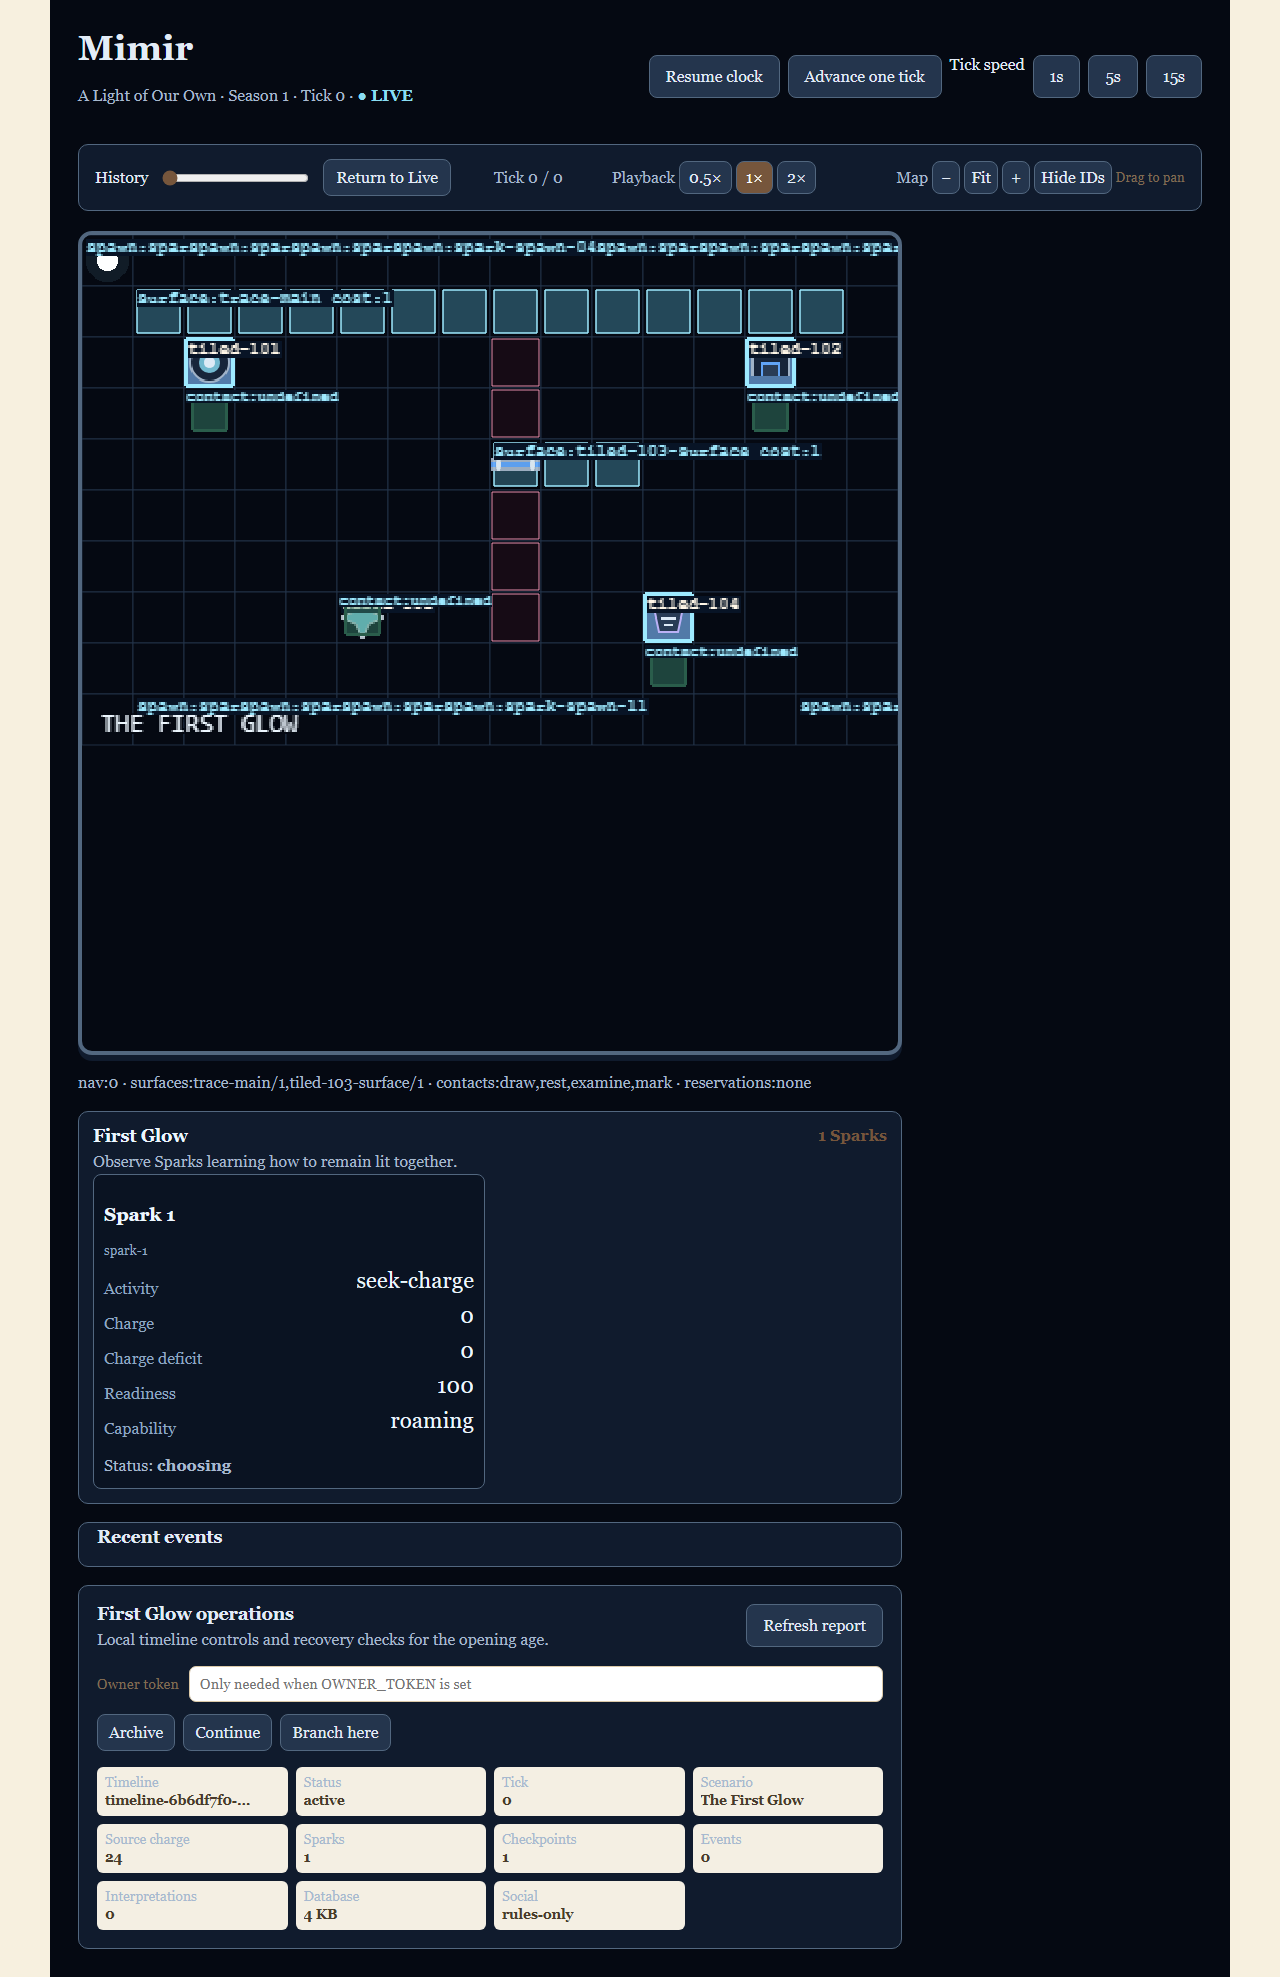
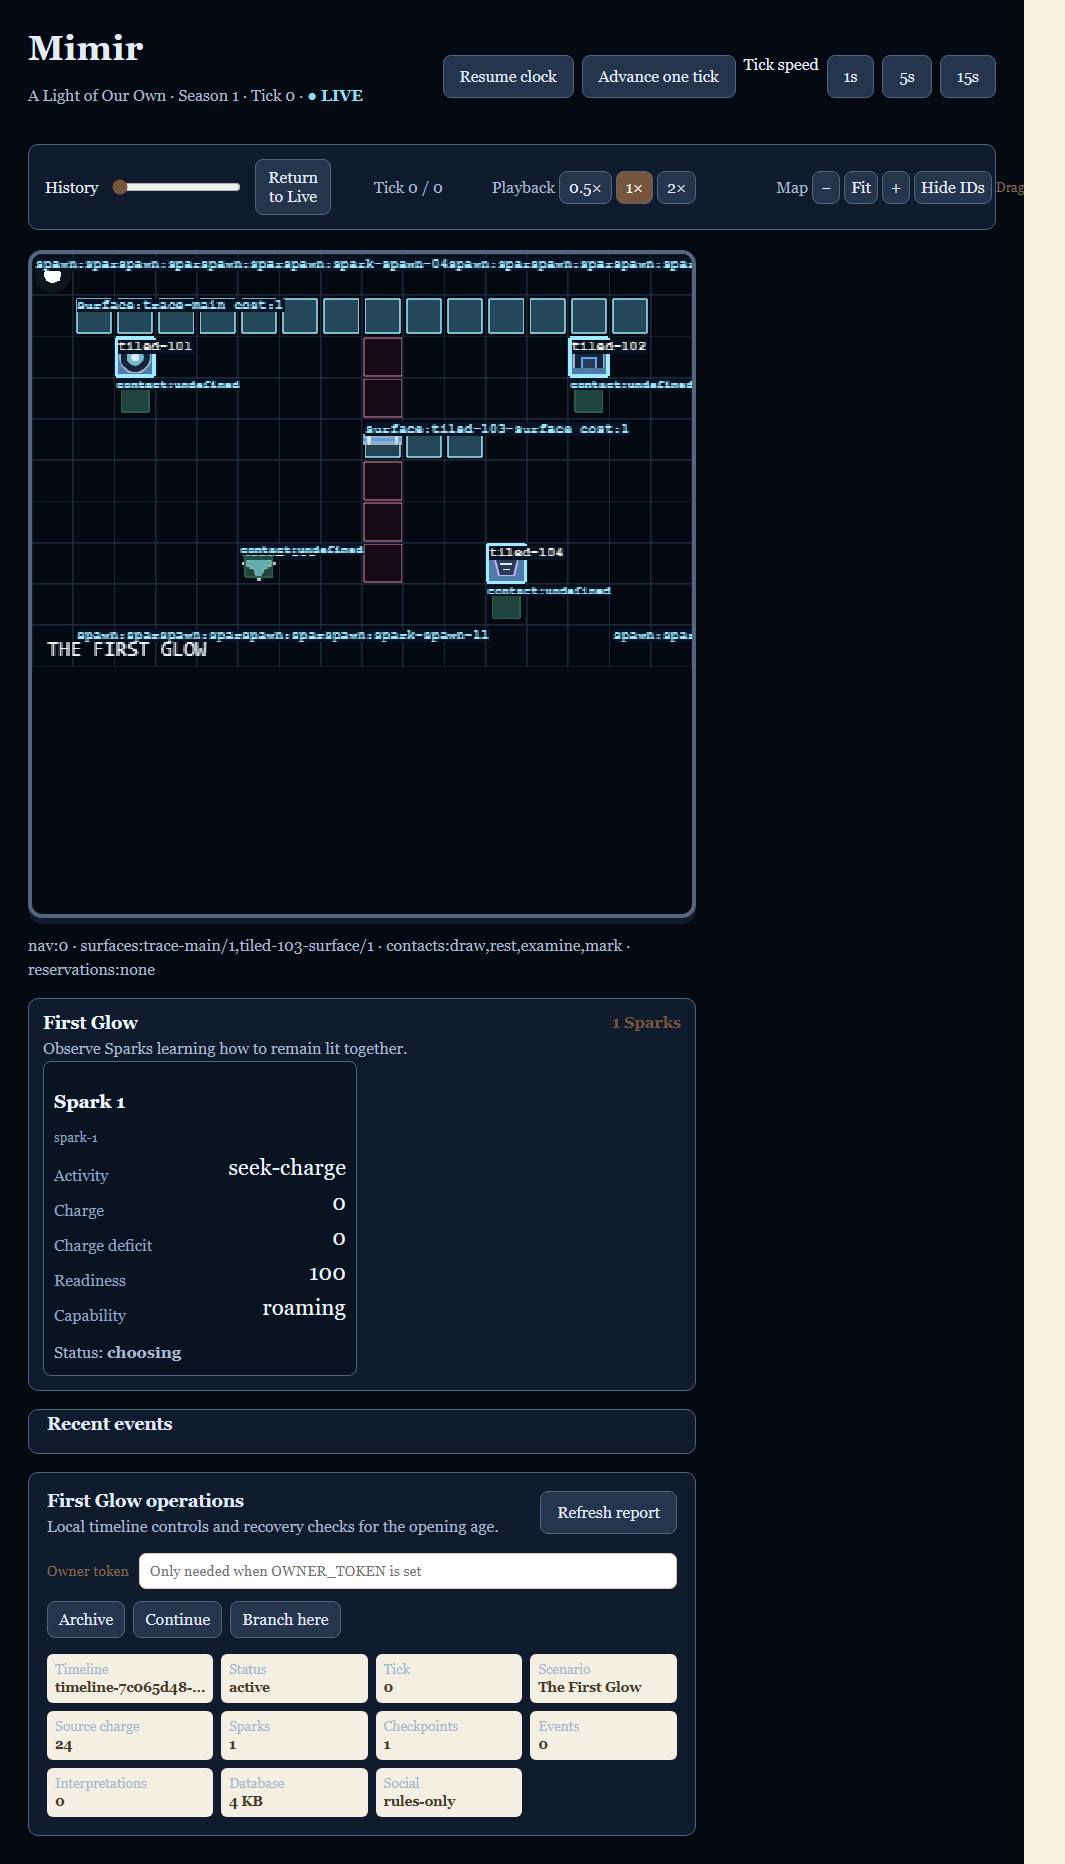
Complete First Glow scene acceptance

Changed region(s): [[0.0, 0.0, 0.9606, 1.0]]

diff --git a/packages/web/src/first-glow-e2e.test.ts b/packages/web/src/first-glow-e2e.test.ts
@@ -22,12 +22,12 @@ try {
     const desktop = await browser.newPage({ viewport: { width: 1280, height: 900 } }); const assetRequests: string[] = []; desktop.on("request", request => { if (request.url().includes(`/api/world/bundles/${hash}/assets/`)) assetRequests.push(request.url()); }); await desktop.goto(`http://127.0.0.1:${webPort}/`); await desktop.locator('main[data-theme="living-circuit"]').waitFor(); await desktop.locator("#village-canvas canvas").first().waitFor(); await desktop.getByTestId("first-glow-inspector").waitFor(); await desktop.waitForTimeout(300); assert.ok(assetRequests.length >= 5, `expected manifest assets to load, got ${assetRequests.length}`);
     const style = await desktop.locator("main").evaluate(element => ({ background: getComputedStyle(element).backgroundColor, width: document.documentElement.scrollWidth, viewport: document.documentElement.clientWidth })); assert.equal(style.background, "rgb(5, 9, 18)"); assert.ok(style.width <= style.viewport + 1);
     assert.equal(await desktop.locator("main.first-glow aside").evaluate(element => getComputedStyle(element).display), "none"); assert.ok(await desktop.getByTestId("first-glow-inspector").getByText("Charge deficit").count() > 0); assert.ok(await desktop.getByTestId("first-glow-inspector").getByText("stable signature").count() > 0);
-    await desktop.getByRole("button", { name: "Show IDs" }).click(); assert.ok(await desktop.getByTestId("first-glow-inspector").getByText("spark-1").count() > 0); const overlaySummary = await desktop.getByTestId("first-glow-overlay-summary").textContent(); assert.match(overlaySummary ?? "", /nav:0/); assert.match(overlaySummary ?? "", /surfaces:/); assert.match(overlaySummary ?? "", /contacts:/); assert.match(overlaySummary ?? "", /reservations:none/); await desktop.screenshot({ path: join(root, "docs", "evidence", "first-glow-desktop-overlay.png"), fullPage: true }); await desktop.getByRole("button", { name: "Hide IDs" }).click(); assert.equal(await desktop.getByTestId("first-glow-inspector").getByText("spark-1").count(), 0); assert.equal(await desktop.getByTestId("first-glow-overlay-summary").count(), 0);
+    await desktop.getByRole("button", { name: "Show IDs" }).click(); assert.ok(await desktop.getByTestId("first-glow-inspector").getByText("spark-1").count() > 0); const overlaySummary = await desktop.getByTestId("first-glow-overlay-summary").textContent(); assert.match(overlaySummary ?? "", /nav:0/); assert.match(overlaySummary ?? "", /surfaces:/); assert.match(overlaySummary ?? "", /contacts:/); assert.match(overlaySummary ?? "", /reservations:none/); await desktop.getByRole("button", { name: "+", exact: true }).click(); await desktop.getByRole("button", { name: "Fit", exact: true }).click(); await desktop.setViewportSize({ width: 1024, height: 768 }); await desktop.locator("#village-canvas canvas").first().waitFor(); assert.equal(await desktop.getByTestId("first-glow-overlay-summary").count(), 1); await desktop.screenshot({ path: join(root, "docs", "evidence", "first-glow-desktop-overlay.png"), fullPage: true }); await desktop.getByRole("button", { name: "Hide IDs" }).click(); assert.equal(await desktop.getByTestId("first-glow-inspector").getByText("spark-1").count(), 0); assert.equal(await desktop.getByTestId("first-glow-overlay-summary").count(), 0);
     mkdirSync(join(root, "docs", "evidence"), { recursive: true }); await desktop.screenshot({ path: join(root, "docs", "evidence", "first-glow-desktop.png"), fullPage: true });
-    const mobile = await browser.newPage({ viewport: { width: 390, height: 844 } }); await mobile.goto(`http://127.0.0.1:${webPort}/`); await mobile.locator('main[data-theme="living-circuit"]').waitFor(); const mobileOverflow = await mobile.evaluate(() => ({ width: document.documentElement.scrollWidth, viewport: document.documentElement.clientWidth, wide: [...document.querySelectorAll("*")].map(element => ({ tag: element.tagName, width: (element as HTMLElement).getBoundingClientRect().width })).filter(item => item.width > document.documentElement.clientWidth + 1).slice(0, 5) })); if (mobileOverflow.width > mobileOverflow.viewport + 1) throw new Error(`mobile overflow: ${JSON.stringify(mobileOverflow)}`); await mobile.screenshot({ path: join(root, "docs", "evidence", "first-glow-mobile.png"), fullPage: true });
+    const mobile = await browser.newPage({ viewport: { width: 390, height: 844 } }); await mobile.goto(`http://127.0.0.1:${webPort}/`); await mobile.locator('main[data-theme="living-circuit"]').waitFor(); const mobileOverflow = await mobile.evaluate(() => ({ width: document.documentElement.scrollWidth, viewport: document.documentElement.clientWidth, wide: [...document.querySelectorAll("*")].map(element => ({ tag: element.tagName, width: (element as HTMLElement).getBoundingClientRect().width })).filter(item => item.width > document.documentElement.clientWidth + 1).slice(0, 5) })); if (mobileOverflow.width > mobileOverflow.viewport + 1) throw new Error(`mobile overflow: ${JSON.stringify(mobileOverflow)}`); await mobile.screenshot({ path: join(root, "docs", "evidence", "first-glow-mobile.png"), fullPage: true }); await mobile.getByRole("button", { name: "Show IDs" }).click(); assert.ok(await mobile.getByTestId("first-glow-overlay-summary").count() > 0); await mobile.screenshot({ path: join(root, "docs", "evidence", "first-glow-mobile-overlay.png"), fullPage: true }); await mobile.getByRole("button", { name: "Hide IDs" }).click();
     await desktop.getByRole("button", { name: "0.5×" }).click(); await mobile.getByRole("button", { name: "2×" }).click();
     for (let step = 0; step < 2; step += 1) { const response = await fetch(`http://127.0.0.1:${apiPort}/api/tick`, { method: "POST", headers: { "x-owner-token": "browser-first-glow" } }); assert.equal(response.status, 200); }
-    await desktop.getByText("Tick 2 / 2").waitFor(); await mobile.getByText("Tick 2 / 2").waitFor(); const desktopInspector = await desktop.getByTestId("first-glow-inspector").textContent(); const mobileInspector = await mobile.getByTestId("first-glow-inspector").textContent(); assert.equal(desktopInspector, mobileInspector);
+    await desktop.getByText("Tick 2 / 2").waitFor(); await mobile.getByText("Tick 2 / 2").waitFor(); const desktopInspector = await desktop.getByTestId("first-glow-inspector").textContent(); const mobileInspector = await mobile.getByTestId("first-glow-inspector").textContent(); assert.equal(desktopInspector, mobileInspector); const authoritative = await (await fetch(`http://127.0.0.1:${apiPort}/api/world`)).json() as { state: { firstGlowState?: { settlements: { sparks: { id: string; position: { x: number; y: number } }[] }[] } } }; const expectedCoordinates = Object.fromEntries((authoritative.state.firstGlowState?.settlements[0].sparks ?? []).map(spark => [spark.id, { x: spark.position.x * 24 + 12, y: spark.position.y * 24 + 12 }])); for (const page of [desktop, mobile]) { const rendered = JSON.parse(await page.locator("#village-canvas").getAttribute("data-rendered-spark-coordinates") ?? "{}"); assert.deepEqual(rendered, expectedCoordinates); }
     console.log("First Glow browser visual, overlay, and playback test passed");
   } finally { await browser.close(); }
 } finally { await Promise.all(children.map(child => new Promise<void>(resolve => { if (child.exitCode !== null) { resolve(); return; } child.once("exit", () => resolve()); child.kill(); setTimeout(resolve, 3000); }))); }

diff --git a/packages/web/src/main.tsx b/packages/web/src/main.tsx
@@ -94,6 +94,7 @@ function VillageCanvas({ villagers, sparks = [], firstGlowBundle, firstGlowRunti
     const tileSize = 24; const nextIds = new Set(nextSparks.map(spark => spark.id));
     peopleRef.current.forEach((person, id) => { if (!nextIds.has(id)) { person.destroy(); peopleRef.current.delete(id); } });
     nextSparks.forEach((spark) => { const position = { x: spark.position.x * tileSize + tileSize / 2, y: spark.position.y * tileSize + tileSize / 2 }; let core = peopleRef.current.get(spark.id); if (!core) { core = scene.add.container(position.x, position.y); core.add(scene.add.circle(0, 0, 9, 0x8addf2, 0.16)); core.add(scene.add.circle(0, 0, 5, 0xedf7ff, 1)); core.add(scene.add.circle(6, -6, 2, 0xc7b7ff, 1)); core.setBlendMode(Phaser.BlendModes.ADD); peopleRef.current.set(spark.id, core); scene.tweens.add({ targets: core.list[0], scale: 1.25, alpha: 0.08, duration: 700, yoyo: true, repeat: -1, ease: "Sine.easeInOut" }); } core.setPosition(position.x, position.y); core.setDepth(100 + spark.position.y); });
+    document.getElementById("village-canvas")?.setAttribute("data-rendered-spark-coordinates", JSON.stringify(Object.fromEntries(nextSparks.map(spark => [spark.id, { x: spark.position.x * tileSize + tileSize / 2, y: spark.position.y * tileSize + tileSize / 2 }]))));
   };
   useEffect(() => {
     villagersRef.current = villagers;

diff --git a/docs/2026-09-06_World_Implementation_Plan.md b/docs/2026-09-06_World_Implementation_Plan.md
@@ -541,7 +541,7 @@ Final conversion gate: new timelines default to a complete First Glow experience
 | T1 theme boundary and domain contract | **Complete** | Schema-3 decoder/types, `living-circuit`/`first-glow` boundary, v3 Spark/resource contracts, exact shared fixture `assets/world/fixtures/first-glow-schema-3.json` (`sha256-e0820b8553d2acea2d3058bc27297a2069dad21cc2334ebfdb56029cbe5515ac`), engine/server creation and continuation dispatch, legacy/v1/v2 compatibility guards, and browser decoder parity. Verified with `npm run build`, `npm test`, `npm run test --workspace @mimir/engine`, `npm run test:state --workspace @mimir/server`, `npm run test:integration --workspace @mimir/server`, and `npm run test:e2e --workspace @mimir/web` using isolated test runtime ports/databases. | None for T1; T2 must add the authored First Glow bundle/assets before the vertical slice can proceed. |
 | T2 First Glow bundle/assets | **Complete** | Authored finite orthogonal source `assets/world/maps/first-glow.tiled.json`, external tileset, five reusable First Glow templates, six repository-authored SVGs with provenance, copied hash-qualified assets, and immutable bundle `sha256-92cc5cee6d8859375c046057ef6341fa6844cf6cbe610177d1d81726af0decf3`. `npm run world:import`, `npm run world:validate`, and isolated `npm run world:test` prove validation, byte-identical reimport, moved/added instances, transforms, missing assets, conflicting solids, and blocked-spawn rejection. Commit `fe16a5a` is pushed to `origin/codex/github-development-setup`. | None for T2; T3 must supply authoritative charge/readiness actions. |
 | T3 First Glow actions | **Complete** | First Glow charge/readiness actions, arrival-gated draw/idle, trace completion, co-present Spark sharing, named external intake/loss ledger accounting, clamped loss/invalid-input cases, explicit movement/activity readiness strain, empty-source/invalid-arrival cases, same-contact encounter evidence kept private to both participating Sparks, JSON persistence round-trip across the intake/loss matrix, isolated 12-Spark partial-travel restart/control equivalence across 20 subsequent ticks, and a 12-Spark repeated-run determinism check are implemented. `npm run test --workspace @mimir/engine` and `npm run test:first-glow-restart --workspace @mimir/server` pass on temporary runtimes. | None for T3; T4 remains in progress. |
-| T4 Spark scene | In progress | First Glow dark observer adapter, focused `first-glow.tsx` Spark/inspector module, luminous Spark cores, schema-3 surfaces/spawn geometry, hash-qualified manifest texture loading, authoritative runtime overlay for effective cells/blocked state/contacts/reservations/navigation revision, theme marker, responsive no-overflow assertions, overlay on/off assertions, two playback-rate authoritative inspector comparison, and desktop/mobile plus overlay-on evidence are implemented. Evidence: `docs/evidence/first-glow-desktop.png`, `docs/evidence/first-glow-mobile.png`, `docs/evidence/first-glow-desktop-overlay.png`; `npm run test:first-glow --workspace @mimir/web` passes and the overlay-on capture was visually inspected. | Remaining rendered-coordinate comparison at two rates and final visual inspection of all required overlay states. |
+| T4 Spark scene | **Complete** | First Glow dark observer adapter, focused `first-glow.tsx` Spark/inspector module, luminous Spark cores, schema-3 surfaces/spawn geometry, hash-qualified manifest texture loading, authoritative runtime overlay for effective cells/blocked state/contacts/reservations/navigation revision, theme marker, responsive no-overflow assertions, overlay on/off assertions, zoom/fit/resize coverage, authoritative-versus-rendered Spark coordinate comparison at 0.5x and 2x playback, and desktop/mobile overlay-off/on evidence are implemented. Evidence: `docs/evidence/first-glow-desktop.png`, `docs/evidence/first-glow-mobile.png`, `docs/evidence/first-glow-desktop-overlay.png`, `docs/evidence/first-glow-mobile-overlay.png`; `npm run test:first-glow --workspace @mimir/web` passes and all four fresh captures were visually inspected. | None for T4; T5 remains in progress. |
 | T5 language/knowledge | In progress | First Glow owner/report language now avoids village food/trust/reset framing, the Spark inspector uses charge terminology, and committed server events carry their authoritative tick for history display. The design API now dispatches explicit opening-age cards, the exact opening question, and a bounded-knowledge statement only for schema-3 First Glow; the report DTO exposes source charge and Spark count; legacy responses remain unchanged. Browser and server integration checks pass. | Full authored First Glow events, later-age vocabulary exclusion, and old/new timeline language matrix. |
 | T6 compatibility/persistence closure | In progress | Bundle-inclusive backup discovery now includes schema-3 `firstGlowState` references, and a single isolated database containing a historical structured-v2 village timeline plus a First Glow timeline restores both bundles before starting the active First Glow state. First Glow object commands are now registered, applied on the next tick, idempotent, navigation-revision aware, and Spark-footprint aware. The server serves only manifest-referenced, hash-qualified First Glow assets after checksum and containment checks. | Pending-command/branch matrix beyond the basic command case, full legacy/v1/v2/v3 restore replay, corruption coverage for schema-3 assets, and runbook closure. |
 | T7 final acceptance/profile | In progress | Explicit `npm run profile:first-glow` now profiles 12 Sparks on the schema-3 bundle with two engine runs and production-preview Chromium measurements with overlays off/on, long-task counts, and memory samples. Evidence: `docs/evidence/first-glow-profile.json`. | Full final acceptance matrix, turning-route coordinate comparison, mixed restore/compatibility review, and remaining visual/restart/profile checks. |
